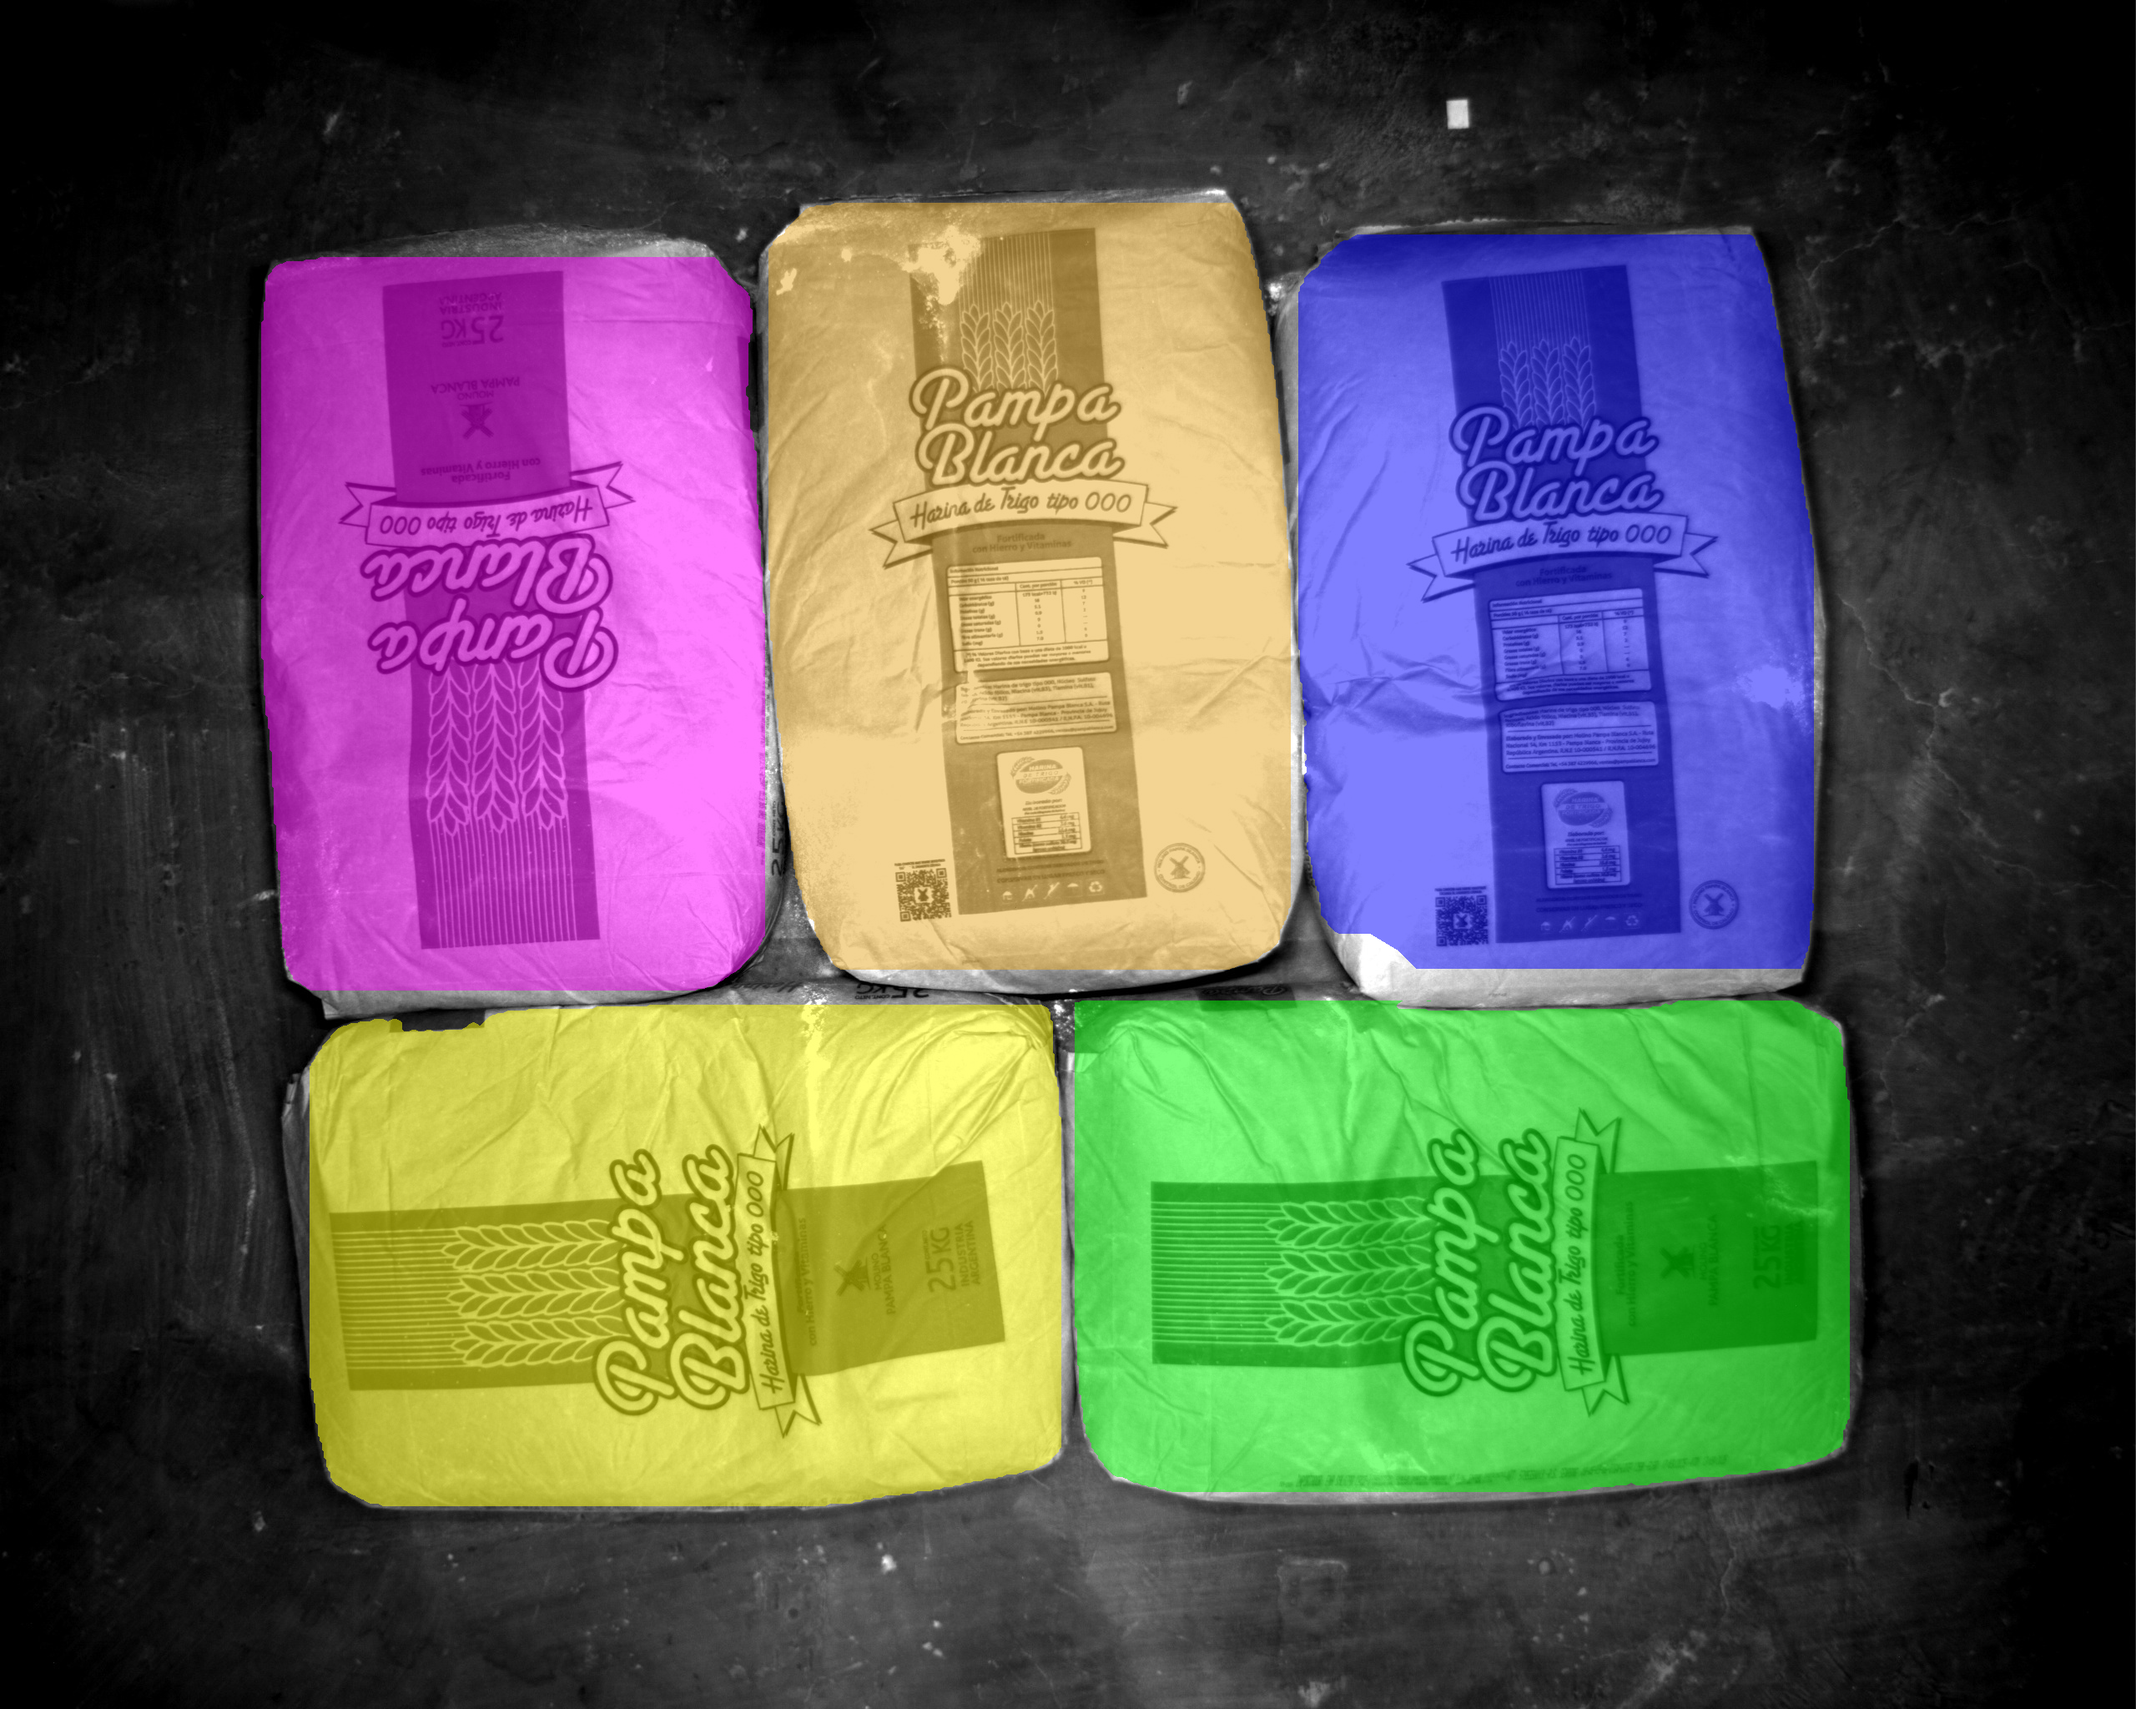
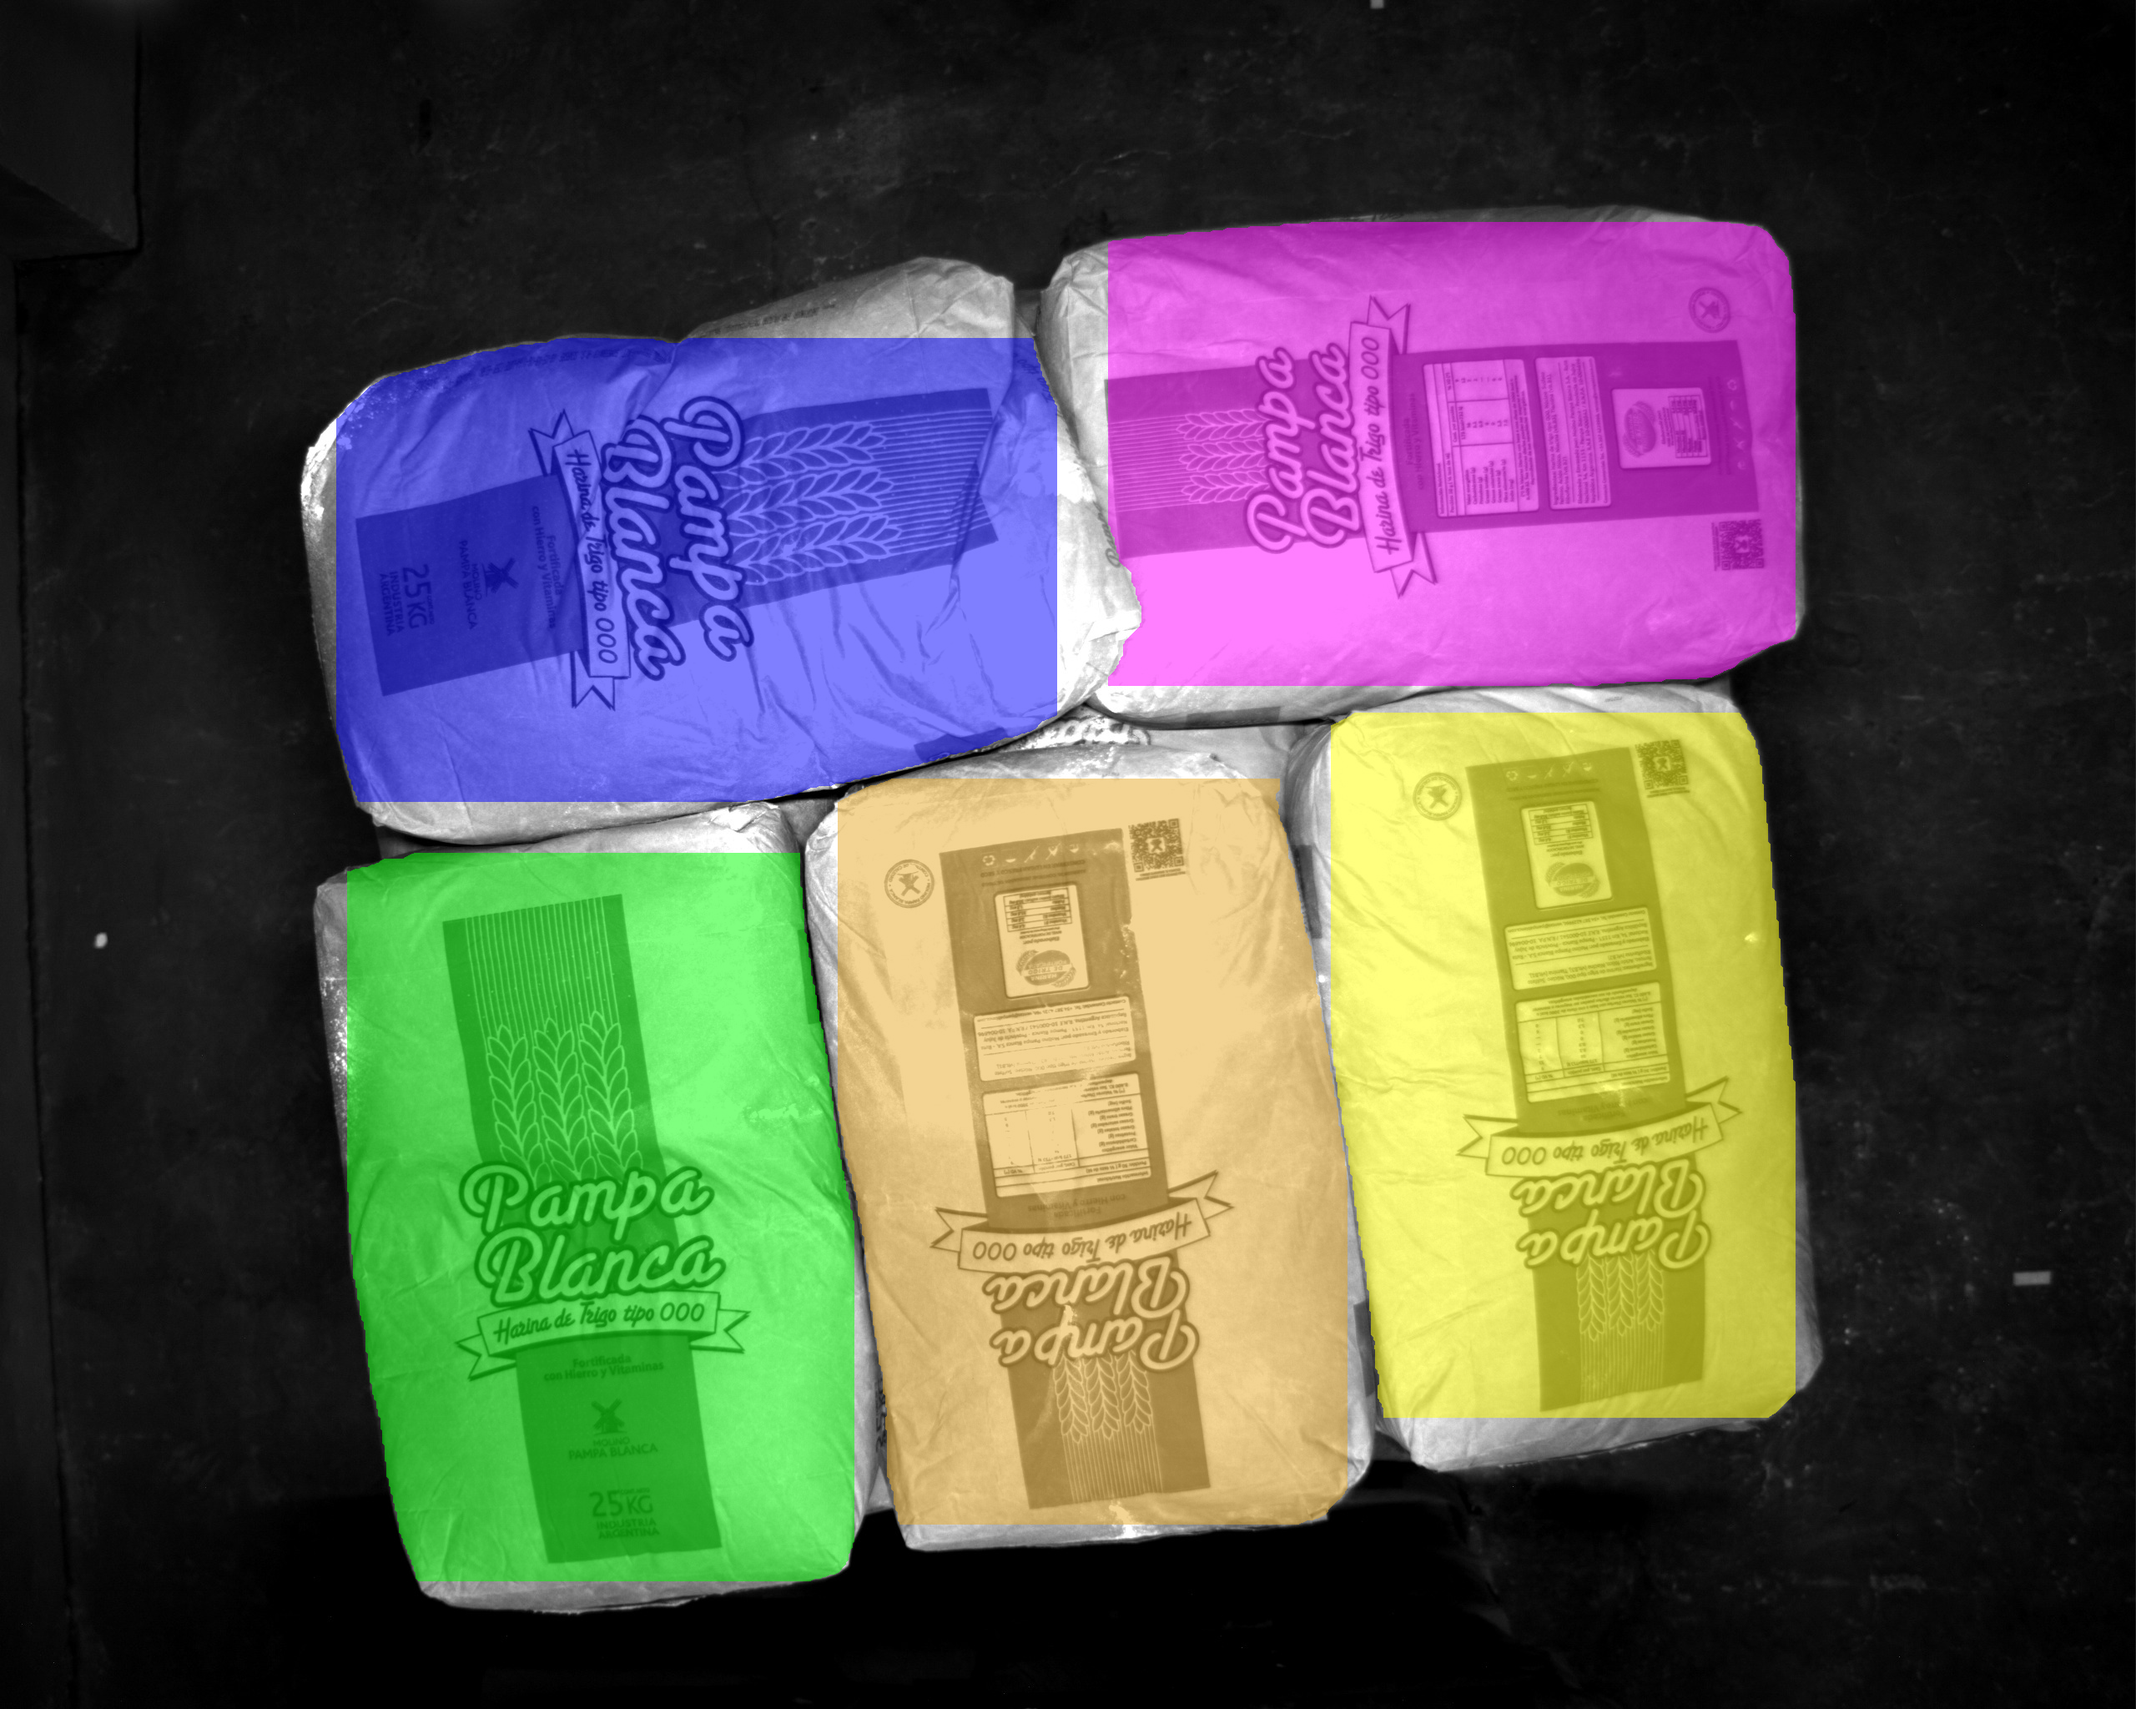
confirmacion en imagen centros bolsas

diff --git a/ftp_ck/image_process.py b/ftp_ck/image_process.py
@@ -91,9 +91,10 @@ def segment_distinct_masks(image_path: str,
     Segment an image with SAM, take the largest top_n regions,
     and filter out duplicates by IoU, returning up to max_masks masks.
     """
-    model = SAM(model_path)
-    model.to("cuda")
-    results = model(image_path)[0]
+    model = SAM(model_path).to("cuda")
+
+    results = model(image_path)[0]  # ✅ usar path, no tensor
+
 
 
 
@@ -130,6 +131,12 @@ def segment_distinct_masks(image_path: str,
     mascaras_sort = new_sort_masks(mascaras_finales)
 
     return mascaras_sort[0:len_mask]
+
+
+
+
+
+
 
 def filtrar_solapamientos_inclusivos(mascaras):
     final = []
@@ -426,6 +433,18 @@ def dividir_mascara(mask_tensor,rgb, min_area=3000):
 
 
 
+def ImgConfirmation(dims, longitud_min, umbral=0.5):
+    if len(dims) != longitud_min:
+        return False
+    list_res = []
+    for (w,h,_,_,_) in dims:
+        list_res.append(w/h)
+    for i in range(len(list_res)):
+        for j in range(i+1, len(list_res)):
+            if abs(list_res[i] - list_res[j]) > umbral:
+                return False
+
+    return True      
 
 def segment_all_masks(image_path: str,
                             model_path: str,
@@ -528,7 +547,7 @@ def center_pallet(mask_total, rgb):    # Asegurarse de que la máscara sea binar
 def main_centros_pallet():
     # Paths and parameters
     image_path = r"D:/CIRAL/VISION/ftp_images/imgSend.jpg"
-    model_path = r"mobile_sam.pt"
+    model_path = r"sam2.1_l.pt"
     overlay_out = r"overlay_bolsas_centros.png"
     centers_out = r"D:/CIRAL/VISION/ftp_ck/images/centros_corregidos.jpg"
 
@@ -584,7 +603,7 @@ def main():
     # Paths and parameters
     time.sleep(0.5)
     image_path = r"D:/CIRAL/VISION/ftp_images/imgSend.jpg"
-    model_path = r"mobile_sam.pt"
+    model_path = r"sam2.1_l.pt"
     overlay_out = r"overlay_bolsas.png"
     centers_out = r"D:/CIRAL/VISION/ftp_ck/images/centros_corregidos.jpg"
 

diff --git a/ftp_ck/server.py b/ftp_ck/server.py
@@ -16,6 +16,7 @@ class DataPoint(BaseModel):
     y: float
     angle: float
     diff_angle: float
+    confirmation: bool
 class DataCenter(BaseModel):
     x: float
     y: float
@@ -32,6 +33,10 @@ def get_puntos_bolsas():
     cliente.download_with_custom_key()
     # 1) Segmentación y cálculo de dimensiones (tu función existing)
     dims = image_process.main()  # [(w,h,cx,cy,angle), ...]
+
+    conf = image_process.ImgConfirmation(dims, 5,0.5)
+
+
     global dims_global
     dims_global = dims
 
@@ -56,8 +61,8 @@ def get_puntos_bolsas():
             x=x,
             y=y,
             angle=angle,
-            diff_angle=diff_angle
-
+            diff_angle=diff_angle,
+            confirmation= conf
         ))
     print("points ====== ",points)
     return points
